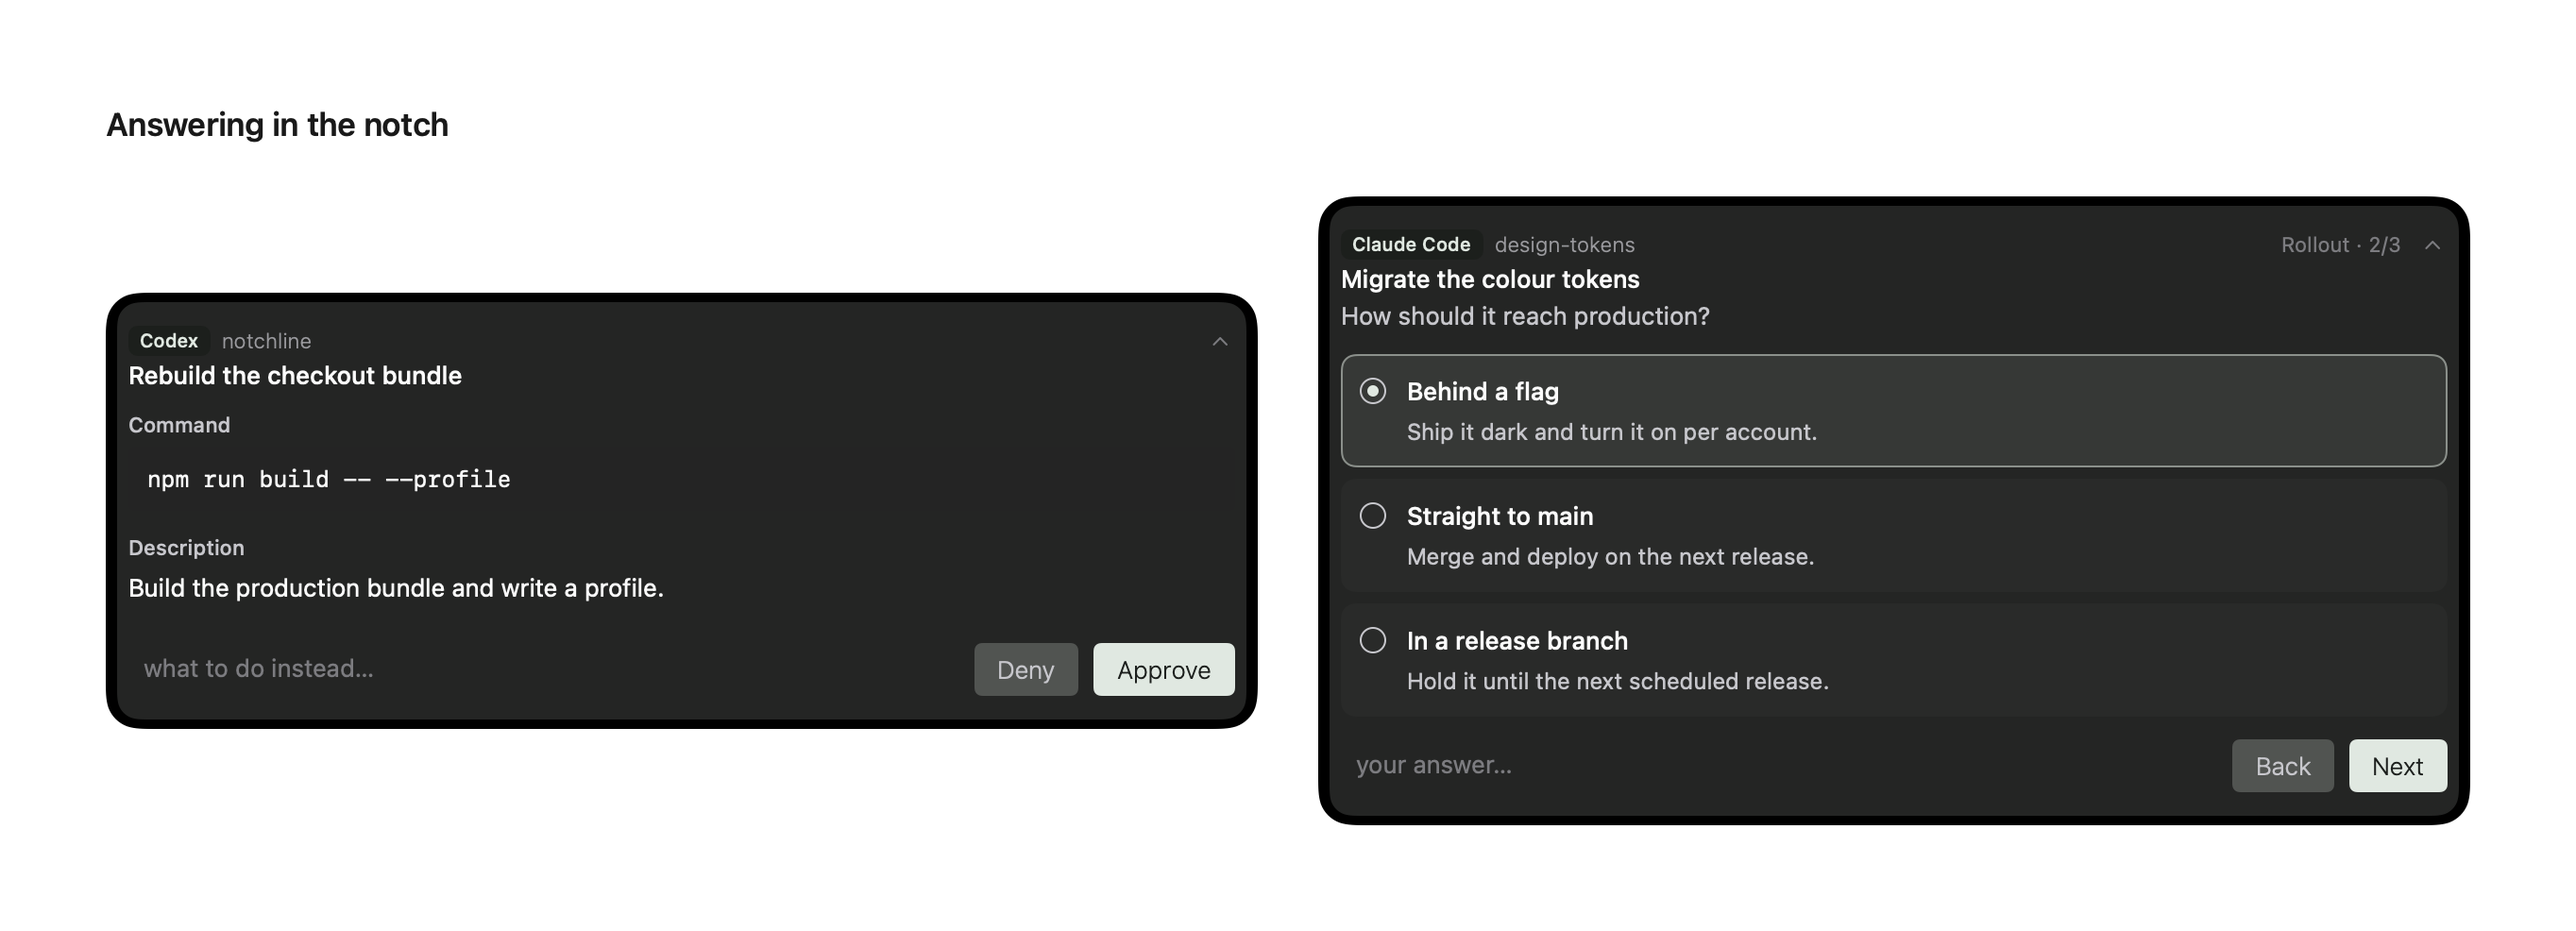
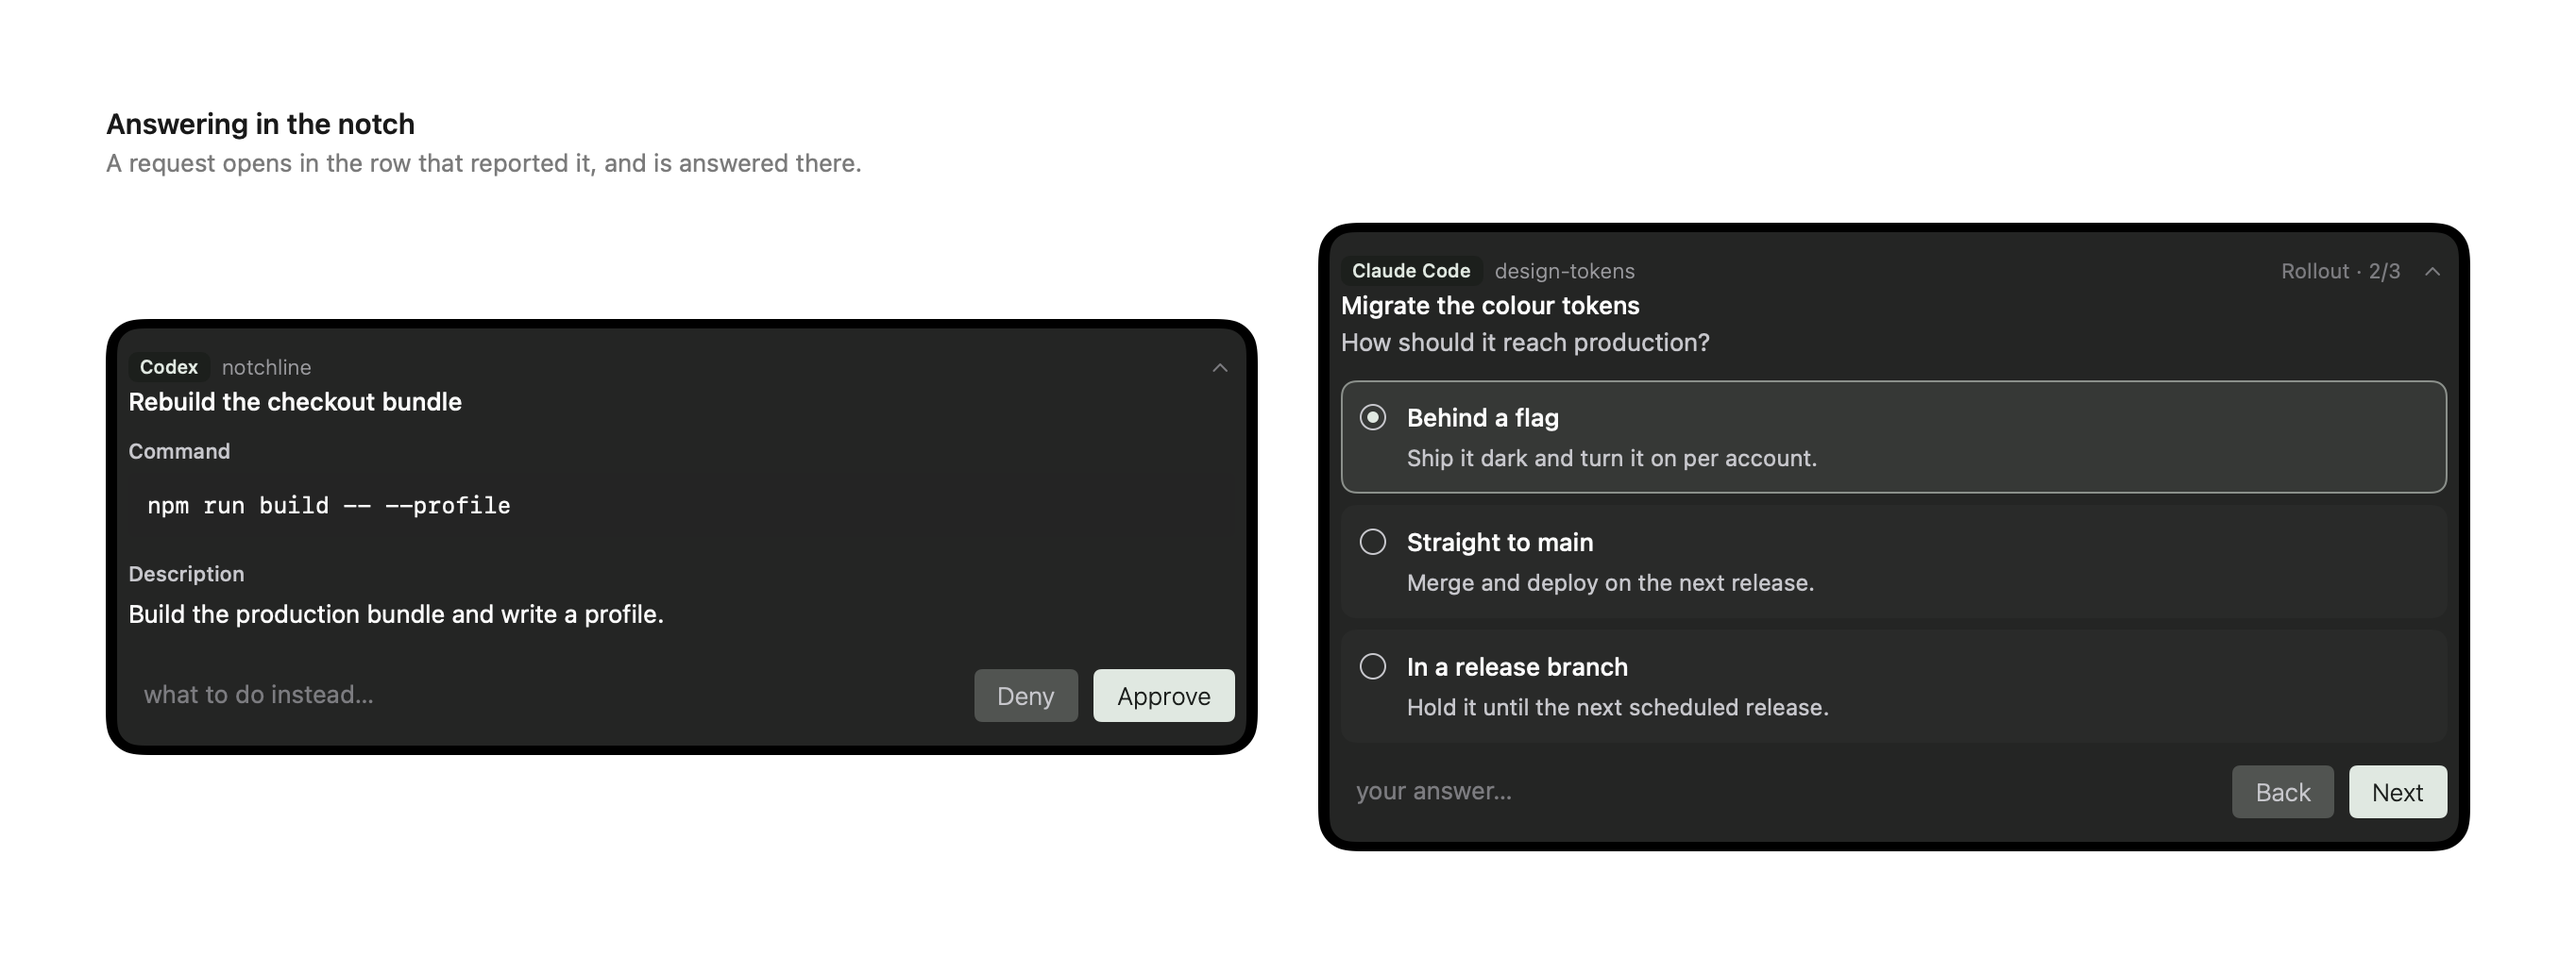
Draw both README figures on one page width
The two figures were `1081` and `1364` wide and rendered at `820` and `880`,
so the README showed two blocks of different widths and, inside them, the same
`13` pt product text at two sizes: a reader comparing an open row with the
panel it opens on was comparing two zoom levels. They now share
`ReadmeAnatomyCard.pageWidth`, which the answering figure sets — two request
plates side by side are twice the panel's width whatever else happens — and
both are drawn at `880`.

Three things the shared width bought, none of them filler:

- **Every label stands on one line.** The columns go `168 → 270`, which is what
  the page has left once the widest specimen has taken its share, and the four
  labels that wrapped (`Answer an approval without leaving`, `How long the turn
  has been running`, `Each product's own quota windows`, and the mark's own)
  no longer do.
- **The pill is drawn at the panel's width** rather than at a fixed `2×`. It
  was `476` against the panel's `621.5` and left a third of its row empty; the
  two specimens now share a left *and* a right edge, and the figures are
  left-aligned rather than each centred on a block of its own, so the captions
  stand on the same edge the artwork does.
- **The margins are split `47 : 53`** rather than `55 : 45`. That split was
  measured for narrow columns where the leading labels were the longer; with
  every label on one line the longest is a trailing one, and the page balances
  a little the other way.
[…]

diff --git a/Notchline/NotchlineTests/ReadmeAnatomyCard.swift b/Notchline/NotchlineTests/ReadmeAnatomyCard.swift
@@ -69,7 +69,13 @@ enum AnatomyCardStyle {
     /// The clear space between a leader's end and the first glyph of its label.
     static let labelGap: CGFloat = 8
     /// How much room a label column is given. Two-line labels wrap inside it.
-    static let labelColumn: CGFloat = 168
+    ///
+    /// `270` rather than `168` since the two figures took a shared page width:
+    /// the room that buys goes to the labels, and every one of them now stands
+    /// on a single line. It is bounded by the trailing column, which has the
+    /// less of the two margins — `274` before a label would reach past the
+    /// page's own padding.
+    static let labelColumn: CGFloat = 270
     static let stackedLabelColumn: CGFloat = 190
 }
 
@@ -434,20 +440,51 @@ struct ReadmeAnatomyCard: View {
     let compact: MonitorStore
     let expanded: MonitorStore
 
-    /// The pill is `241.5 × 46`, which is too small an object to name six parts
-    /// around. It is drawn at twice its size — the same drawing at the same
-    /// proportions, with the labels given room to stand apart.
-    static let compactScale: CGFloat = 2
+    /// The pill is `238 × 32`, which is too small an object to name six parts
+    /// around, and too narrow to sit under the panel without leaving a third of
+    /// its row empty. It is drawn at **the panel's own width** — the same
+    /// drawing at the same proportions — so the two specimens share a left and
+    /// a right edge and the page reads as a grid rather than as two figures
+    /// that happen to be stacked.
+    private var compactScale: CGFloat {
+        expandedAnchors.windowWidth / compactAnchors.windowWidth
+    }
 
     static let padding: CGFloat = 56
-    /// The room a figure's labels stand in, either side of the specimen.
+
+    /// The width both README figures are drawn at.
     ///
-    /// Asymmetric, because the labels are: the leading column is right-aligned
-    /// and hugs the drawing, so its longest label reaches `184` out from the
-    /// panel, while the trailing column is left-aligned and its longest reaches
-    /// `144`. One figure for both left the page visibly heavier on the left.
-    static let leadingMargin: CGFloat = 192
-    static let trailingMargin: CGFloat = 156
+    /// **Set by the answering figure, which cannot be narrower.** Two request
+    /// plates side by side are twice the panel's own width whatever else
+    /// happens, so a page that holds them is `1364`; drawing the anatomy at
+    /// anything less would put the two figures on the README at two widths and
+    /// two scales, and a reader comparing a plate with the panel it opens on
+    /// would be comparing two zoom levels.
+    static let pageWidth: CGFloat = 1364
+
+    /// The room a figure's labels stand in, either side of the specimen: what
+    /// the page has left once the widest specimen has taken its share.
+    ///
+    /// Split `55 : 45`, because the labels are: the leading column is
+    /// right-aligned and hugs the drawing while the trailing column is
+    /// left-aligned and its longest label is shorter. One figure for both left
+    /// the page visibly heavier on the left.
+    static func margins(specimenWidth: CGFloat) -> (leading: CGFloat, trailing: CGFloat) {
+        let slack = max(0, pageWidth - padding * 2 - specimenWidth)
+        // `47 : 53`, measured against the labels themselves rather than
+        // guessed: with both columns at ``AnatomyCardStyle/labelColumn`` and
+        // every label on one line, the longest trailing label is the longer of
+        // the two, so the page balances a little the other way from the split
+        // the narrow columns wanted.
+        return (leading: slack * 0.47, trailing: slack * 0.53)
+    }
+
+    /// One margin pair for both figures, taken from the wider of the two
+    /// specimens — so the pill and the panel stand on one left edge rather than
+    /// each being centred on a block of its own.
+    private var margins: (leading: CGFloat, trailing: CGFloat) {
+        Self.margins(specimenWidth: max(compactSize.width, expandedSize.width))
+    }
     /// And above and below it, for the labels that stand there. The panel
     /// carries none below it and gives that room back.
     static let stackMargin: CGFloat = 46
@@ -464,8 +501,8 @@ struct ReadmeAnatomyCard: View {
 
     private var compactSize: CGSize {
         CGSize(
-            width: compactAnchors.windowWidth * Self.compactScale,
-            height: compactAnchors.band * Self.compactScale
+            width: compactAnchors.windowWidth * compactScale,
+            height: compactAnchors.band * compactScale
         )
     }
 
@@ -476,11 +513,9 @@ struct ReadmeAnatomyCard: View {
         )
     }
 
-    /// One width for the page: whichever figure needs more, margins included.
+    /// One width for the page, shared with the answering figure.
     static func width(compact: MonitorStore, expanded: MonitorStore) -> CGFloat {
-        let card = ReadmeAnatomyCard(compact: compact, expanded: expanded)
-        let widest = max(card.compactSize.width, card.expandedSize.width)
-        return widest + leadingMargin + trailingMargin + padding * 2
+        pageWidth
     }
 
     var body: some View {
@@ -492,9 +527,9 @@ struct ReadmeAnatomyCard: View {
                 callouts: compactCallouts,
                 margin: EdgeInsets(
                     top: Self.stackMargin,
-                    leading: Self.leadingMargin,
+                    leading: margins.leading,
                     bottom: Self.stackMargin + Self.stackedRowStep,
-                    trailing: Self.trailingMargin
+                    trailing: margins.trailing
                 )
             ) {
                 NotchOverlayView()
@@ -503,7 +538,7 @@ struct ReadmeAnatomyCard: View {
                         width: compactAnchors.windowWidth,
                         height: compactAnchors.band
                     )
-                    .scaleEffect(Self.compactScale, anchor: .topLeading)
+                    .scaleEffect(compactScale, anchor: .topLeading)
                     .frame(
                         width: compactSize.width,
                         height: compactSize.height,
@@ -519,9 +554,9 @@ struct ReadmeAnatomyCard: View {
                 callouts: expandedCallouts,
                 margin: EdgeInsets(
                     top: Self.stackMargin,
-                    leading: Self.leadingMargin,
+                    leading: margins.leading,
                     bottom: 0,
-                    trailing: Self.trailingMargin
+                    trailing: margins.trailing
                 )
             ) {
                 NotchOverlayView()
@@ -561,7 +596,7 @@ struct ReadmeAnatomyCard: View {
                 margin: margin,
                 specimen: specimen
             )
-            .frame(maxWidth: .infinity, alignment: .center)
+            .frame(maxWidth: .infinity, alignment: .leading)
         }
         .frame(maxWidth: .infinity, alignment: .leading)
     }
@@ -570,7 +605,7 @@ struct ReadmeAnatomyCard: View {
 
     private var compactCallouts: [AnatomyCallout] {
         let a = compactAnchors
-        let s = Self.compactScale
+        let s = compactScale
         return [
             AnatomyCallout(
                 id: 1,
@@ -672,14 +707,14 @@ struct ReadmeAnatomyCard: View {
             ),
             AnatomyCallout(
                 id: 7,
-                text: "Answer an approval\nwithout leaving",
+                text: "Answer an approval without leaving",
                 side: .trailing,
                 target: CGPoint(x: a.rowTextRight, y: a.rowTitleY(0)),
                 stem: 26
             ),
             AnatomyCallout(
                 id: 8,
-                text: "How long the turn\nhas been running",
+                text: "How long the turn has been running",
                 side: .trailing,
                 target: CGPoint(x: a.rowTextRight, y: a.rowTitleY(1)),
                 stem: 26
@@ -737,7 +772,7 @@ struct ReadmeAnatomyCard: View {
             ),
             AnatomyCallout(
                 id: 16,
-                text: "Each product's own\nquota windows",
+                text: "Each product's own quota windows",
                 side: .leading,
                 target: CGPoint(x: a.windowLineLeft, y: a.windowLineY),
                 stem: 34

diff --git a/Notchline/NotchlineTests/ReadmeAnsweringCard.swift b/Notchline/NotchlineTests/ReadmeAnsweringCard.swift
@@ -56,28 +56,32 @@ struct ReadmeAnsweringCard: View {
     let staged: ApprovalSpecimens.Staged
 
     static let padding = ReadmeAnatomyCard.padding
-    /// Between the two plates. They are the panel's own width, so the page is
-    /// wide and the gutter between them does not need to be.
+    /// Between the two plates. They are the panel's own width, and the two of
+    /// them plus this is what sets ``ReadmeAnatomyCard/pageWidth``.
     static let plateGap: CGFloat = 32
-    static let titleGap: CGFloat = 28
-
-    static let titleFont = Font.system(size: 17, weight: .semibold)
+    static let titleGap = ReadmeAnatomyCard.captionGap
 
     private var plates: [MonitorStore] { [staged.command, staged.series] }
 
+    /// The page both figures share, which this one is what sets.
     static func width(_ staged: ApprovalSpecimens.Staged) -> CGFloat {
-        let card = ReadmeAnsweringCard(staged: staged)
-        let widths = card.plates.map { OpenRowPlate(store: $0).size.width }
-        return widths.reduce(0, +)
-            + plateGap * CGFloat(max(widths.count - 1, 0))
-            + padding * 2
+        ReadmeAnatomyCard.pageWidth
     }
 
     var body: some View {
         VStack(alignment: .leading, spacing: Self.titleGap) {
-            Text("Answering in the notch")
-                .font(Self.titleFont)
-                .foregroundStyle(AnatomyCardStyle.caption)
+            // The anatomy figure's own caption pair, at the same sizes: the two
+            // figures are siblings on the README, and a heading a couple of
+            // points larger here would have made this one look like the parent
+            // of the other.
+            VStack(alignment: .leading, spacing: 3) {
+                Text("Answering in the notch")
+                    .font(AnatomyCardStyle.captionFont)
+                    .foregroundStyle(AnatomyCardStyle.caption)
+                Text("A request opens in the row that reported it, and is answered there.")
+                    .font(AnatomyCardStyle.captionDetailFont)
+                    .foregroundStyle(AnatomyCardStyle.captionDetail)
+            }
 
             // Centred against each other rather than hung from one line. Two
             // requests are never this size at once anyway — a panel draws one

diff --git a/README.md b/README.md
@@ -18,7 +18,7 @@
 Notchline shows which sessions are working, waiting for you or completed. Hover to see monitored sessions, read previews, answer supported requests or return to the originating conversation. Displays without a notch use a compact pill. Currently supports Codex Desktop and Claude Code (Desktop + CLI).
 
 <p align="center">
-  <img src="design/assets/07-readme/notchline-anatomy.png" width="820" alt="Notchline anatomy: the compact view with the status mark, session and subagent counts, project name, unread dot and elapsed timer; and the expanded view with the live session list, recent sessions and usage.">
+  <img src="design/assets/07-readme/notchline-anatomy.png" width="880" alt="Notchline anatomy: the compact view with the status mark, session and subagent counts, project name, unread dot and elapsed timer; and the expanded view with the live session list, recent sessions and usage.">
 </p>
 
 <p align="center">
